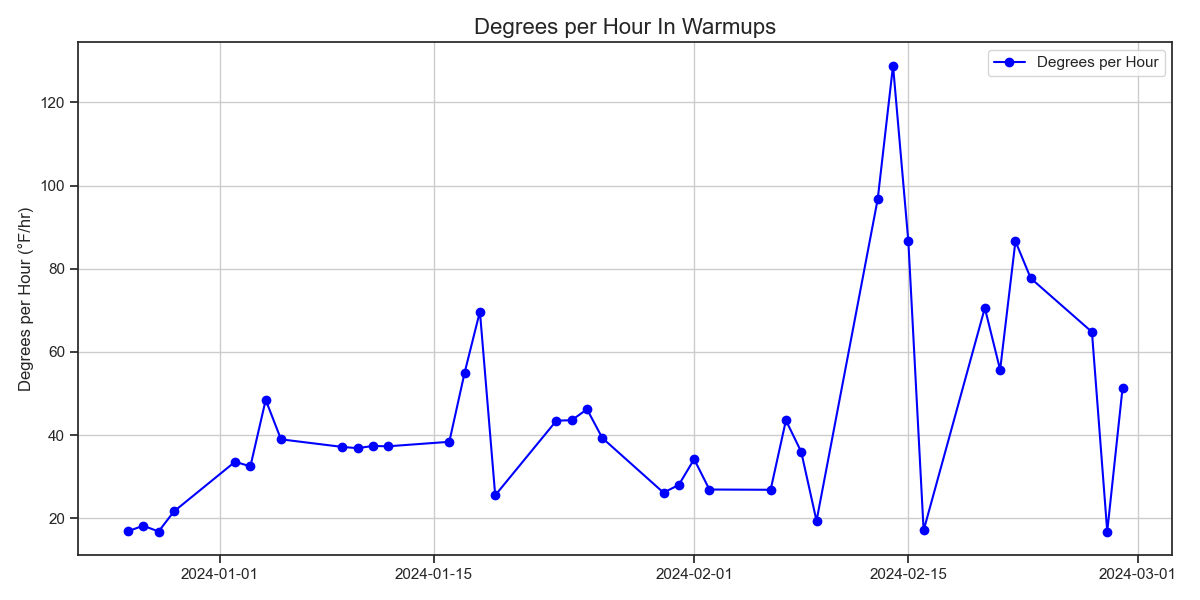
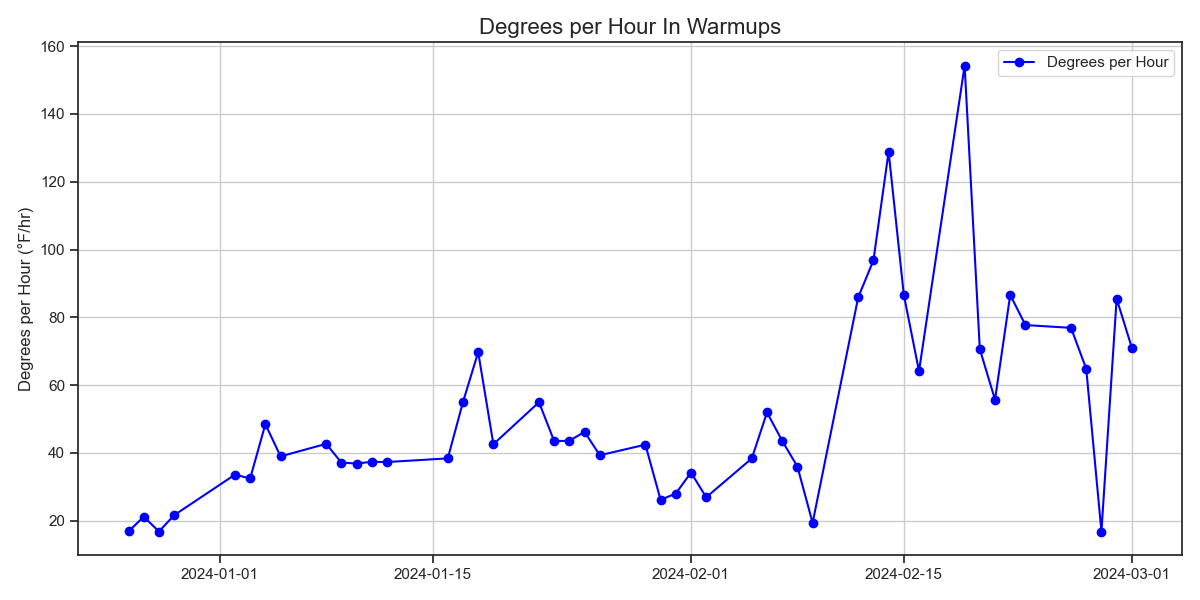
article writeup done for the analytics

diff --git a/OptimalStartStop/RecoveryTimeAnalytics/helpers.py b/OptimalStartStop/RecoveryTimeAnalytics/helpers.py
@@ -32,7 +32,7 @@ def process_data_with_daily_setpoints(
     daily_setpoints,
     zone_temp_prox_thres,
     steep_increase_thres,
-    rolling_window_size,
+    warmup_window_hours,
 ):
     """
     Process the data using daily thresholds for warm-up calculations.
@@ -40,10 +40,13 @@ def process_data_with_daily_setpoints(
     # Ensure the day column is of the same type as the daily_setpoints index
     data["day"] = pd.to_datetime(data.index.date)
 
+    # Filter data to only include rows within the warm-up window hours
+    filtered_data = data[data.index.hour.isin(warmup_window_hours)].copy()
+    filtered_data["Warm_Up_Active"] = 0  # Initialize column
+
     for day, thresholds in daily_setpoints.iterrows():
-        # Convert 'day' to the same type as 'data["day"]'
         day = pd.to_datetime(day)
-        day_data = data[data["day"] == day].copy()  # Explicit copy to avoid warning
+        day_data = filtered_data[filtered_data["day"] == day].copy()
         if day_data.empty:
             print(f"No data for day: {day}. Skipping...")
             continue
@@ -51,31 +54,27 @@ def process_data_with_daily_setpoints(
         occupied_threshold = thresholds["occupied_threshold"]
         unoccupied_threshold = thresholds["unoccupied_threshold"]
 
-        # Explicit use of .loc for assignments
-        day_data.loc[:, "temp_steep_increase"] = (
+        # Identify steep increases and near-occupied thresholds
+        day_data["temp_steep_increase"] = (
             day_data["SpaceTemp"].diff() > steep_increase_thres
         ) & (day_data["SpaceTemp"] >= (unoccupied_threshold + zone_temp_prox_thres))
-        day_data.loc[:, "near_occupied_threshold"] = (
+        day_data["near_occupied_threshold"] = (
             day_data["SpaceTemp"] >= (occupied_threshold - zone_temp_prox_thres)
         ) & (day_data["SpaceTemp"] <= (occupied_threshold + zone_temp_prox_thres))
 
+        # Apply warm-up logic
         warm_up_active = False
         for row in day_data.itertuples():
             if row.temp_steep_increase:
                 warm_up_active = True
             if row.near_occupied_threshold:
                 warm_up_active = False
-            data.loc[row.Index, "Warm_Up_Active"] = int(warm_up_active)
+            day_data.loc[row.Index, "Warm_Up_Active"] = int(warm_up_active)
 
-    data["Warm_Up_Active_Smoothed"] = (
-        data["Warm_Up_Active"].rolling(window=rolling_window_size, center=True).sum()
-    )
-    data["Warm_Up_Active"] = (
-        (data["Warm_Up_Active"] == 1) & (data["Warm_Up_Active_Smoothed"] > 1)
-    ).astype(int)
-    data.drop(columns=["Warm_Up_Active_Smoothed"], inplace=True)
+        # Update the main filtered DataFrame
+        filtered_data.loc[day_data.index, "Warm_Up_Active"] = day_data["Warm_Up_Active"]
 
-    return data
+    return filtered_data
 
 
 def analyze_warm_up(
@@ -85,9 +84,9 @@ def analyze_warm_up(
     exclude_daytypes,
     zone_temp_prox_thres,
     steep_increase_thres,
-    rolling_window_size,
     dataset_min_per_time_step,
     max_warmup_time_minutes,
+    warmup_window_hours,  # Add this parameter
 ):
     print(f"\nAnalyzing warm-up for {start_date} to {end_date}...")
     subset_data = data.loc[start_date:end_date].copy()
@@ -101,22 +100,18 @@ def analyze_warm_up(
         daily_setpoints,
         zone_temp_prox_thres,
         steep_increase_thres,
-        rolling_window_size,
+        warmup_window_hours,  # Pass the warmup window hours here
     )
 
     print("Step 3: Calculating warm-up durations and results...")
     daily_warm_up_duration = subset_data["Warm_Up_Active"].resample("D").sum()
     daily_warm_up_duration_minutes = daily_warm_up_duration * dataset_min_per_time_step
 
-    # Reindex to align with daily_4am_values
-    # Shave off max calculations great than the max_warmup_time_minutes
-    daily_4am_values = subset_data.between_time("04:00", "04:00").resample("D").first()
+    daily_4am_values = subset_data.between_time("04:00", "04:15").resample("D").first()
     daily_warm_up_duration_minutes = daily_warm_up_duration_minutes.reindex(
         daily_4am_values.index
     ).fillna(0).clip(upper=max_warmup_time_minutes)
 
-
-    # Create results DataFrame
     results = pd.DataFrame(
         {
             "Warm_Up_Duration (minutes)": daily_warm_up_duration_minutes,
@@ -127,13 +122,7 @@ def analyze_warm_up(
         }
     ).dropna()
 
-    '''
-    print("daily_warm_up_duration_minutes length:", len(daily_warm_up_duration_minutes))
-    print("daily_4am_values length:", len(daily_4am_values))
-    print("daily_4am_values['SpaceTemp'] length:", len(daily_4am_values["SpaceTemp"]))
-    print("daily_4am_values['OaTemp'] length:", len(daily_4am_values["OaTemp"]))
-    print("daily_4am_values['HwsTemp'] length:", len(daily_4am_values["HwsTemp"]))
-    print("daily_4am_values index length:", len(daily_4am_values.index))
-    '''
     return subset_data, daily_setpoints, results
+
+
 

diff --git a/OptimalStartStop/PNNL_Model_Three/pnnl_model3_method.py b/OptimalStartStop/PNNL_Model_Three/pnnl_model3_method.py
@@ -2,18 +2,14 @@ import datetime as dt
 import matplotlib.pyplot as plt
 
 # Configuration Parameters
-forgetting_factor = 0.1  # Exponential smoothing factor
-early_start_limit = 180  # Maximum early start time in minutes
-late_start_limit = 10  # Minimum pre-start time in minutes
-
-monday_morning_extra_time = 30
+learning_rate= 0.1  # What is an optimal learning rate???
 
 # Initialize Parameters
 alpha_3a = 10  # Default time to change indoor temp by 1 degree
 alpha_3b = 5  # Time interval for outdoor temp influence
 alpha_3d = 0  # Dynamic adjustment for start time
 
-# Historical data (fake data for 7 days)
+# Historical data with sensor values recorded at 4 AM
 historical_data = [
     {"zone_temp": 50, "outdoor_temp": 10, "warmup_time_minutes_history": 120},
     {"zone_temp": 48, "outdoor_temp": 12, "warmup_time_minutes_history": 115},
@@ -24,7 +20,7 @@ historical_data = [
     {"zone_temp": 47, "outdoor_temp": 14, "warmup_time_minutes_history": 108},
 ]
 
-# Current Conditions
+# 4AM Conditions Check
 current_conditions = {
     "zone_temp": 48,  # Current indoor temperature
     "outdoor_temp": 12,  # Current outdoor temperature
@@ -32,9 +28,8 @@ current_conditions = {
 }
 
 
-def smooth_parameters(alpha, alpha_new, forgetting_factor):
-    """Exponential smoothing for parameter updates."""
-    return alpha + forgetting_factor * (alpha_new - alpha)
+def compute_minutes(alpha, alpha_new, learning_rate):
+    return alpha + learning_rate * (alpha_new - alpha)
 
 
 def calculate_optimal_start(current_conditions, alpha_3a, alpha_3b, alpha_3d):
@@ -49,11 +44,10 @@ def calculate_optimal_start(current_conditions, alpha_3a, alpha_3b, alpha_3d):
         + alpha_3d
     )
 
-    t_opt = max(late_start_limit, min(t_opt, early_start_limit))
     return t_opt
 
 
-def update_parameters(historical_data, forgetting_factor):
+def update_parameters(historical_data, learning_rate):
     """Update parameters alpha_3a, alpha_3b, and alpha_3d using historical data."""
     global alpha_3a, alpha_3b, alpha_3d
 
@@ -70,13 +64,13 @@ def update_parameters(historical_data, forgetting_factor):
             + alpha_3b_new * (T_sp - T_z) * (T_sp - T_o) / alpha_3b_new
         )
 
-        alpha_3a = smooth_parameters(alpha_3a, alpha_3a_new, forgetting_factor)
-        alpha_3b = smooth_parameters(alpha_3b, alpha_3b_new, forgetting_factor)
-        alpha_3d = smooth_parameters(alpha_3d, alpha_3d_new, forgetting_factor)
+        alpha_3a = compute_minutes(alpha_3a, alpha_3a_new, learning_rate)
+        alpha_3b = compute_minutes(alpha_3b, alpha_3b_new, learning_rate)
+        alpha_3d = compute_minutes(alpha_3d, alpha_3d_new, learning_rate)
 
 
 # Update parameters based on historical data
-update_parameters(historical_data, forgetting_factor)
+update_parameters(historical_data, learning_rate)
 
 # Calculate optimal start time for current conditions
 optimal_start_time = calculate_optimal_start(

diff --git a/OptimalStartStop/RecoveryTimeAnalytics/plotting_utils.py b/OptimalStartStop/RecoveryTimeAnalytics/plotting_utils.py
@@ -136,18 +136,25 @@ def plot_degrees_per_hour(results, output_dir):
     print(f"Line plot saved to {line_plot_path}")
 
 
-
 def plot_relationship_matrix(results, output_dir):
     """
     Plot a pairplot to show relationships between warm-up duration, temperatures, and day of the week.
     """
     plot_path = os.path.join(output_dir, "Relationship_Matrix.png")
 
-    # Convert Day_of_Week to the full day name for better visualization
-    results["Day_of_Week"] = results.index.day_name()
+    # Filter out rows where Warm_Up_Duration (minutes) is zero
+    results_filtered = results[results["Warm_Up_Duration (minutes)"] > 0].copy()
+
+    # Check if there is any data left to plot
+    if results_filtered.empty:
+        print(f"No data available for plotting after filtering. Skipping plot creation.")
+        return
+
+    # Add Day_of_Week column using assign to avoid SettingWithCopyWarning
+    results_filtered = results_filtered.assign(Day_of_Week=results_filtered.index.day_name())
 
     # Select relevant columns
-    data_to_plot = results[
+    data_to_plot = results_filtered[
         ["Warm_Up_Duration (minutes)", "4AM OaTemp", "4AM HwsTemp", "Day_of_Week"]
     ]
 
@@ -166,4 +173,6 @@ def plot_relationship_matrix(results, output_dir):
     pairplot.savefig(plot_path)
     plt.close()
     print(f"Relationship matrix plot saved to {plot_path}")
+
+
 

diff --git a/OptimalStartStop/RecoveryTimeAnalytics/main.py b/OptimalStartStop/RecoveryTimeAnalytics/main.py
@@ -15,10 +15,10 @@ from plotting_utils import (
 )
 
 # Constants
-EXCLUDE_DAYTYPES = ["Saturday", "Sunday", "Monday"]
+EXCLUDE_DAYTYPES = [] # ["Saturday", "Sunday", "Monday"]
+WARMUP_WINDOWS_HOURS = [4,6,7,8,9,10]
 ZONE_TEMP_PROX_THRES = 0.5  # °F
 STEEP_INCREASE_THRES = 0.6  # °F
-ROLLING_WINDOW_SIZE = 3
 DATASET_MIN_PER_TIME_STEP = 5
 MAX_WARMUP_TIME_MINUTES = 230
 OUTPUT_DIR = "Analysis_Results"
@@ -59,7 +59,7 @@ for label, (start, end) in time_ranges.items():
         daily_setpoints,
         ZONE_TEMP_PROX_THRES,
         STEEP_INCREASE_THRES,
-        ROLLING_WINDOW_SIZE,
+        WARMUP_WINDOWS_HOURS,
     )
 
     print("Step 4: Analyzing warm-up data...")
@@ -70,10 +70,11 @@ for label, (start, end) in time_ranges.items():
         EXCLUDE_DAYTYPES,
         ZONE_TEMP_PROX_THRES,
         STEEP_INCREASE_THRES,
-        ROLLING_WINDOW_SIZE,
         DATASET_MIN_PER_TIME_STEP,
-        MAX_WARMUP_TIME_MINUTES, 
+        MAX_WARMUP_TIME_MINUTES,
+        WARMUP_WINDOWS_HOURS, 
     )
+
 
     # Debug results
     if not results.empty:
